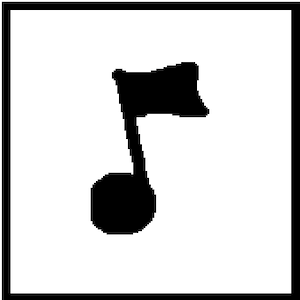
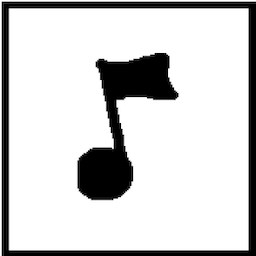
build/publish scripts for arm64 version 1.0

diff --git a/Models/SettingsModel.cs b/Models/SettingsModel.cs
@@ -19,7 +19,7 @@ public class SettingsModel
 
     public SettingsModel()
     {
-        string JsonSettingsString = File.ReadAllText(Path.Combine("Assets", "settings.json"));
+        string JsonSettingsString = File.ReadAllText(Path.Combine(AppContext.BaseDirectory,"Assets", "settings.json"));
 
         JsonNode? parsedJson = JsonNode.Parse(JsonSettingsString);
         if (parsedJson is JsonObject)
@@ -42,14 +42,14 @@ public class SettingsModel
         if (1 <= newRate && newRate <= 20)
         {
 
-            string JsonSettingsString = File.ReadAllText(Path.Combine("Assets", "settings.json"));
+            string JsonSettingsString = File.ReadAllText(Path.Combine(AppContext.BaseDirectory,"Assets", "settings.json"));
             JsonNode? parsedJson = JsonNode.Parse(JsonSettingsString);
             if (parsedJson is JsonObject obj)
             {
 
                 obj["RateLimit"] = newRate;
                 var NewSettings = new JsonSerializerOptions { WriteIndented = true };
-                File.WriteAllText(Path.Combine("Assets","settings.json"), obj.ToJsonString(NewSettings));
+                File.WriteAllText(Path.Combine(AppContext.BaseDirectory,"Assets","settings.json"), obj.ToJsonString(NewSettings));
             }
         }
     }
@@ -62,13 +62,13 @@ public class SettingsModel
     {
         if (0 <= newQuality && newQuality <= 10)
         {
-            string JsonSettingsString = File.ReadAllText(Path.Combine("Assets", "settings.json"));
+            string JsonSettingsString = File.ReadAllText(Path.Combine(AppContext.BaseDirectory,"Assets", "settings.json"));
             JsonNode? parsedJson = JsonNode.Parse(JsonSettingsString);
             if (parsedJson is JsonObject obj)
             {
                 obj["AudioQuality"] = newQuality;
                 var NewSettings = new JsonSerializerOptions { WriteIndented = true };
-                File.WriteAllText(Path.Combine("Assets","settings.json"), obj.ToJsonString(NewSettings));
+                File.WriteAllText(Path.Combine(AppContext.BaseDirectory,"Assets","settings.json"), obj.ToJsonString(NewSettings));
             }
         }
     }
@@ -78,13 +78,13 @@ public class SettingsModel
     }
     public void SetThumbnail(bool thumbnails)
     {
-            string JsonSettingsString = File.ReadAllText(Path.Combine("Assets", "settings.json"));
+            string JsonSettingsString = File.ReadAllText(Path.Combine(AppContext.BaseDirectory,"Assets", "settings.json"));
             JsonNode? parsedJson = JsonNode.Parse(JsonSettingsString);
             if (parsedJson is JsonObject obj)
             {
                 obj["EmbedThumbnail"] = thumbnails;
                 var NewSettings = new JsonSerializerOptions { WriteIndented = true };
-                File.WriteAllText(Path.Combine("Assets","settings.json"), obj.ToJsonString(NewSettings));
+                File.WriteAllText(Path.Combine(AppContext.BaseDirectory,"Assets","settings.json"), obj.ToJsonString(NewSettings));
             }
     }
 }

diff --git a/ViewModels/HomePageViewModel.cs b/ViewModels/HomePageViewModel.cs
@@ -86,7 +86,7 @@ public partial class HomePageViewModel : ViewModelBase
     private PlaylistViewModel? _selectedPlaylist;
 
     [ObservableProperty]
-    private Bitmap _albumArt = new Bitmap(Path.Combine("Assets", "defaultAlbumArt.png"));
+    private Bitmap _albumArt = new Bitmap(Path.Combine(AppContext.BaseDirectory,"Assets", "defaultAlbumArt.png"));
 
     //End Playlist Viewer Properties
 
@@ -327,7 +327,7 @@ public partial class HomePageViewModel : ViewModelBase
             }
             else
             {
-                AlbumArt = new Bitmap(Path.Combine("Assets", "defaultAlbumArt.png"));
+                AlbumArt = new Bitmap(Path.Combine(AppContext.BaseDirectory, "Assets", "defaultAlbumArt.png"));
             }
         }
     }

diff --git a/Services/DbConnection.cs b/Services/DbConnection.cs
@@ -120,9 +120,7 @@ public class DbConnection
 
         try
         {
-            Console.WriteLine("Getting Here");
             connection.Open();
-            Console.WriteLine("Getting Here Too");
 
             SqliteCommand cmd = connection.CreateCommand();
             cmd.CommandText =
@@ -383,8 +381,9 @@ public class DbConnection
     }
 
     private static string GetConnString()
-    { 
-        return $"Data Source={Path.Combine("Assets", "database.db")}";
+    {
+        string path = Path.Combine(AppContext.BaseDirectory,"Assets", "database.db");
+        return $"Data Source={path}";
     }
 
     public static void OnStartupCall()

diff --git a/Services/AppleMusicAdder.cs b/Services/AppleMusicAdder.cs
@@ -116,7 +116,7 @@ public class AppleMusicAdder
         int exitCode = proc.ExitCode;
         StringBuilder sb = new StringBuilder();
         sb.Append(proc.StandardError.ReadToEnd());
-        Console.WriteLine($"[ERROR CHECKING] Errors are : {proc.StandardError.ReadToEnd()}");
+        Console.WriteLine($"{proc.StandardError.ReadToEnd()}");
 
 
 

diff --git a/Services/Downloader.cs b/Services/Downloader.cs
@@ -152,7 +152,6 @@ public class Downloader
             RedirectStandardError = true,
         };
 
-        Console.WriteLine("Starting Subprocess");
 
         var proc = Process.Start(subprocess);
         ArgumentNullException.ThrowIfNull(proc);
